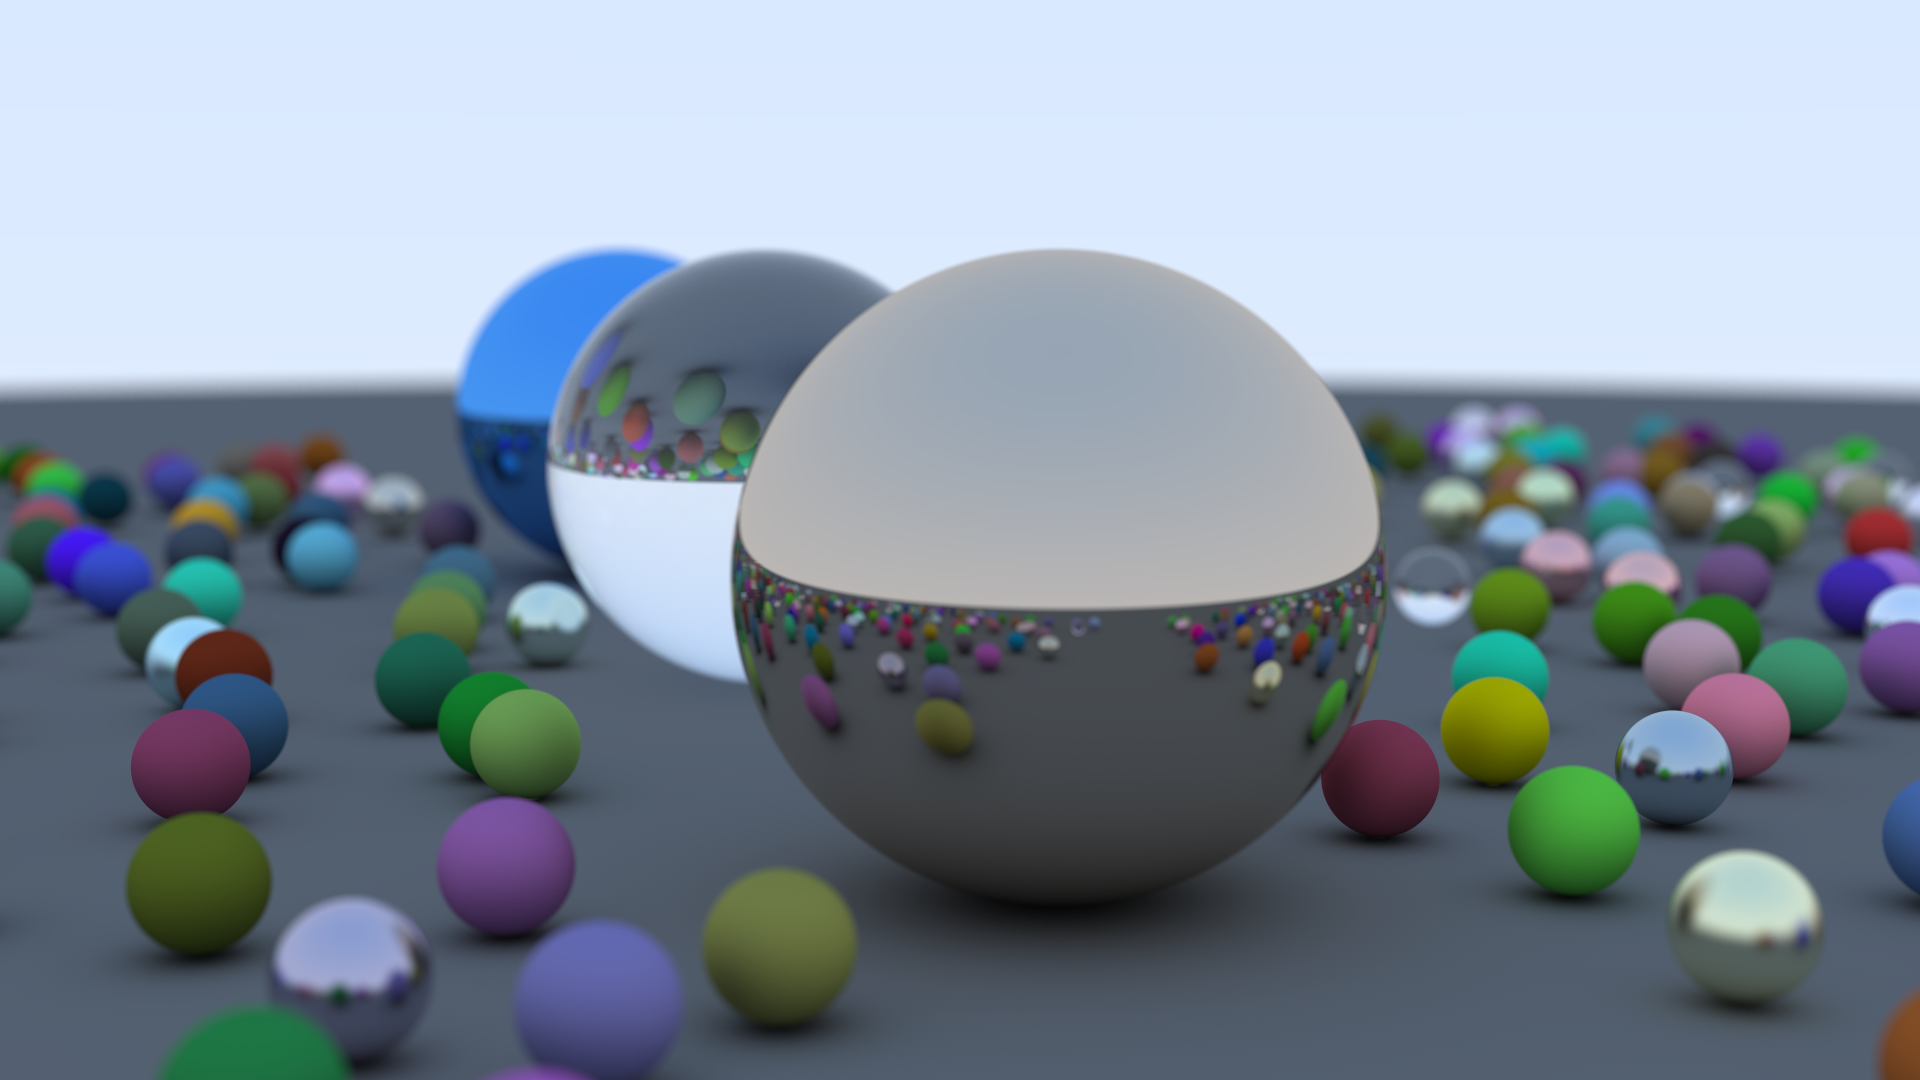
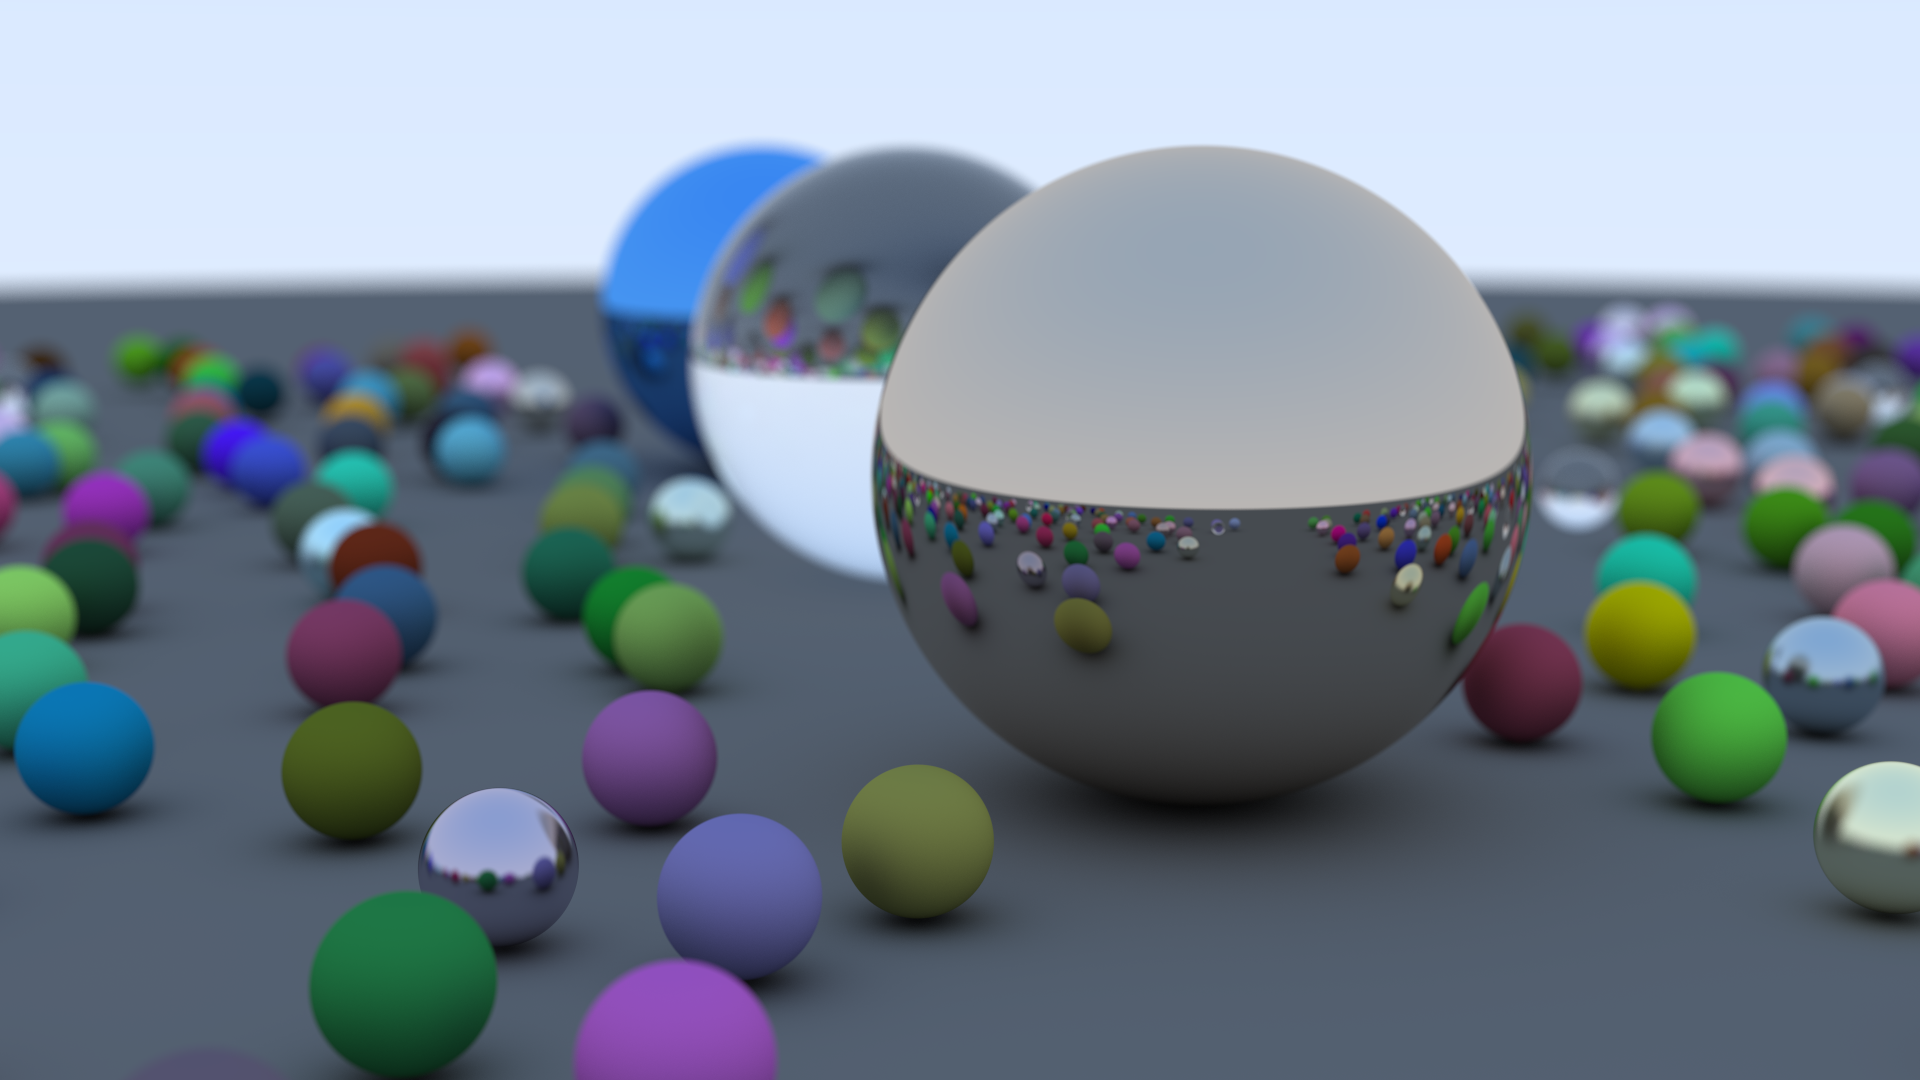
JC: Add re-render of spheres_3

diff --git a/README.md b/README.md
@@ -15,7 +15,7 @@ Implemented camera aperture width and focal length effects. This is the end of t
 Tracing in One Weekend" book. The render below includes a bunch of randomly generated
 spheres and showcases the depth of field effect given by the camera lens parameters.
 - Scene: [`scenes/spheres_3.json`](/scenes/spheres_3.json)
-- Render time: 00:42:50
+- Render time: 00:45:01
 
 ![](/img/spheres_3.png "Camera Lens Effects")
 
